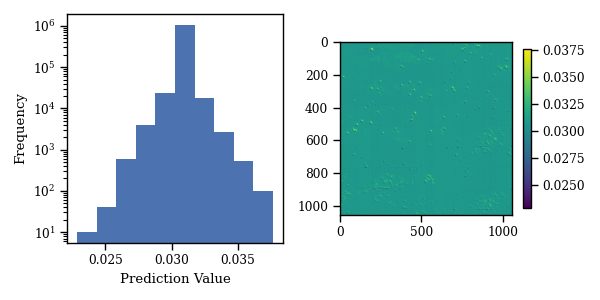
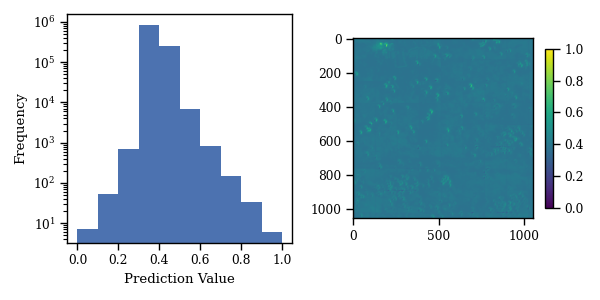
post prediction fix doesn't work; back to debugging
approach for today: invert at end by saving min and max, then turning prediction matrix A' = 1/A, then renormalizing A' between those boundaries.
I'm going to make the change after the detect trees step of predict() because it's the least involved aspect of the code to change.

X_std = (X - X.min(axis=0)) / (X.max(axis=0) - X.min(axis=0))
X_scaled = X_std * (max - min) + min

Okay based on initial investigation this does not seem like a good approach...it reverses the distribution which is a bad idea.

maybe my norm func is wrong?

maybe 2d norm is bad? haha lol it was using l1 normalization...switched to max
axis was problem because it was normalizing by row in the matrix (i.e. by sample)

okay so I've proved that there's the inversion because if you divide 1 by the output and renormalize (and adjust th) you get polygons out...this is not long term fix however (as we discussed)...because the activation confidence could get messed up by inversion, such that if it wasn't inverted max confidence would be 0.9 for tree,  but because of weirdness introduced from inversion, the max confidence for background detection would be lower (or greater) like 0.7.
This isn't even to mention how janky it would be to mess with the threshold (th) for polygon detection on the renormalized prediction mask

priority is to find and fix the root culprit bug before the weekend ends!!

immediate to-do: migrate plots-for-debugging out of this repo and fix main.py and prediction.py

diff --git a/cnnheights/utilities.py b/cnnheights/utilities.py
@@ -179,34 +179,5 @@ def invert_mask(X):
     import numpy as np
     from sklearn.preprocessing import normalize
 
-    print(X[0:10])
-    print(1/X[0:10])
-    print(normalize(1/X, axis=0)[0:10])
-
-    r'''
-    
-    [[0.50110745 0.49980497 0.4996786  ... 0.5023139  0.501352   0.50213087]
-    [0.5026268  0.4994622  0.49813697 ... 0.5024432  0.50196874 0.50255257]
-    [0.5038615  0.5012923  0.499848   ... 0.5051733  0.5051552  0.5031507 ]
-    ...
-    [0.50384116 0.5021962  0.50274897 ... 0.50591207 0.5054116  0.5036077 ]
-    [0.5033306  0.5017534  0.5030531  ... 0.50667477 0.50552416 0.50319076]
-    [0.5039467  0.5019605  0.50322825 ... 0.5061992  0.5052878  0.50435114]]
-    [[1.99558   2.0007803 2.0012863 ... 1.990787  1.9946065 1.9915127]
-    [1.9895478 2.0021536 2.00748   ... 1.9902748 1.9921559 1.9898416]
-    [1.9846724 1.9948442 2.0006082 ... 1.9795187 1.9795896 1.9874761]
-    ...
-    [1.9847525 1.9912536 1.9890642 ... 1.9766281 1.9785852 1.9856726]
-    [1.9867659 1.993011  1.9878616 ... 1.9736526 1.9781449 1.9873179]
-    [1.9843367 1.9921886 1.9871699 ... 1.9755069 1.9790701 1.9827456]]
-    [[0.03052739 0.03060694 0.03061468 ... 0.03045407 0.03051249 0.03046517]
-    [0.03011384 0.03030464 0.03038526 ... 0.03012484 0.03015332 0.03011828]
-    [0.03011287 0.0302672  0.03035466 ... 0.03003467 0.03003575 0.03015541]
-    ...
-    [0.02991167 0.03000965 0.02997665 ... 0.02978923 0.02981872 0.02992554]
-    [0.02994127 0.03003538 0.02995778 ... 0.02974365 0.02981135 0.02994959]
-    [0.02993064 0.03004907 0.02997337 ... 0.02979746 0.0298512  0.02990664]]
- 
-    '''
-
-    return normalize(1/X, axis=0)
+    y = 1/X
+    return (y - np.min(y)) / (np.max(y) - np.min(y))

diff --git a/cnnheights/main.py b/cnnheights/main.py
@@ -85,6 +85,17 @@ def main(output_dir:str,
     predict(model, ndvi_image=ndvi_images[idx], pan_image=pan_images[idx],
             output_dir=predictions_dir, crs='EPSG:32628')
     
+    import geopandas as gpd 
+    gdf = gpd.read_parquet('/ar1/PROJ/fjuhsd/personal/thaddaeus/other/cnn-heights/predicted_polygons.geoparquet')
+    print(gdf)
+    print(len(gdf.index))
+
+    import matplotlib.pyplot as plt
+    fig, ax = plt.subplots()
+    gdf.plot(ax=ax)
+    plt.tight_layout()
+    plt.savefig('/ar1/PROJ/fjuhsd/personal/thaddaeus/github/cnn-tree-heights/plots-for-debugging/predicted-polygons/plot[th=0.09].pdf')
+
 if __name__ == '__main__':
     main(data_dir='/ar1/PROJ/fjuhsd/personal/thaddaeus/github/cnn-tree-heights/data/input',
          output_dir='/ar1/PROJ/fjuhsd/personal/thaddaeus/other/cnn-heights')

diff --git a/cnnheights/prediction.py b/cnnheights/prediction.py
@@ -147,7 +147,7 @@ def predict(model, ndvi_image, pan_image, output_dir:str, crs:str):
             return (tp)
 
         # first, find contours with cv2: it's much faster than shapely
-        th = 0.5
+        th = 0.09
         mask = maskF.copy()
         mask[mask < th] = 0
         mask[mask >= th] = 1
